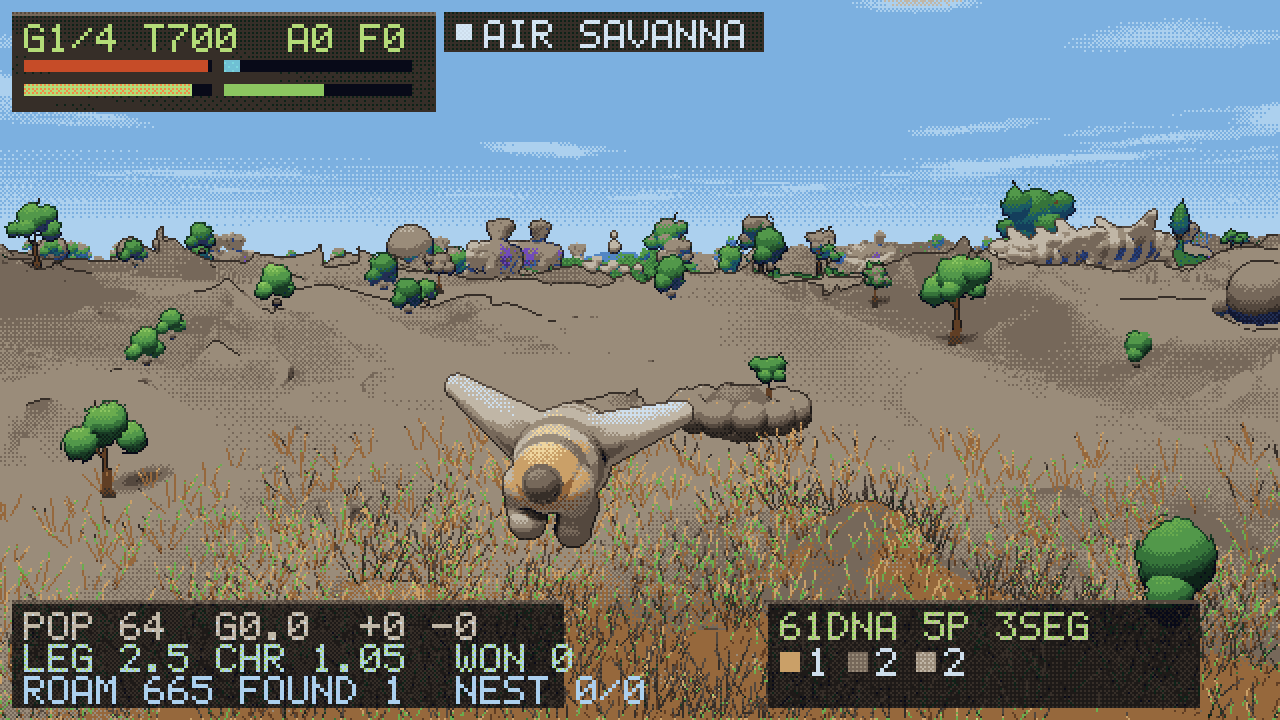
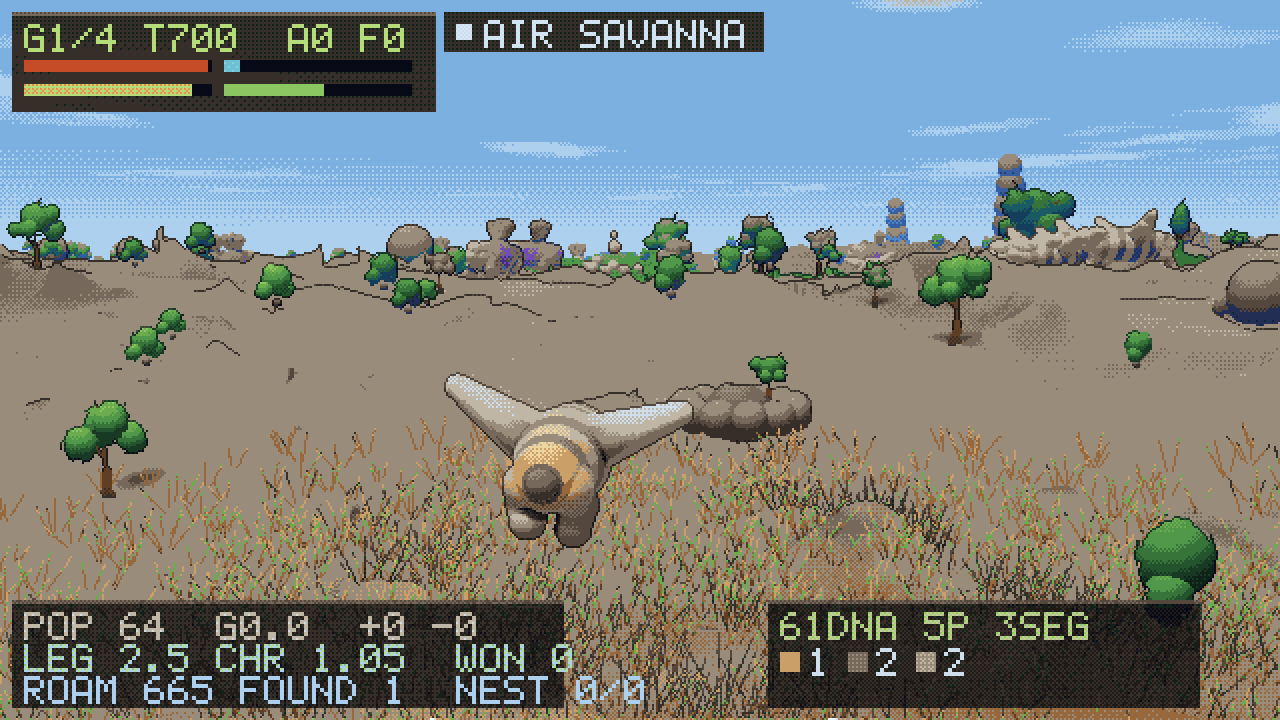
Wrapped light, visible wind, and somewhere to walk to
Four changes, aimed at the specific things that make an open world read as
somewhere you would go rather than as terrain you are standing on.

Wrapped diffuse with coloured shade. A plain Lambert terminator is a hard
line into near-black, and near-black is where a landscape stops being a
place and becomes a diagram. Light now wraps well past the terminator and
what is left over is filled by a blue sky dome, on the ground and on every
sphere impostor alike, so the unlit side of a hill or a canopy stays
legible and stays coloured. It is the same two terms with different
numbers and it moves the look further than anything else here.

Rim light, strongest when the sun is behind the subject. There are no
leaves to pass light through, but the silhouette is where the facing term
goes to zero, which is where the effect belongs - and it is what separates
one crown from the crown behind it when both are in shade.

Wind, as gusts rather than as wobble. A noise field scrolls along a fixed
heading and grass, boughs and crowns all sample the same one, so a gust
reads as a single thing crossing the ground instead of three animations
running at once. A bent blade is also a shorter one; leaning without
losing height stretches the grass rather than pushing it over.

Flowers, one tuft in a few dozen, because the ground is deliberately
low-chroma and a handful of saturated pixels per square is what gives the
eye somewhere to land. Rare on purpose - a meadow that is half flowers is
wallpaper.
[…]

diff --git a/src/render_land.c b/src/render_land.c
@@ -131,6 +131,38 @@ static float fbm2(uint32_t s, float x, float z)
          + rnoise(s ^ 0xC3u, x * 4.3f, z * 4.3f) * 0.17f;
 }
 
+/* Wind.
+ *
+ * The one thing a still frame cannot show and the one thing that most decides
+ * whether a landscape is alive. It is not a per-blade wobble: real wind
+ * arrives in gusts that cross the ground as visible bands, so this is a noise
+ * field scrolling along a fixed heading, sampled at whatever is being bent.
+ * Grass, boughs and crowns all read the same field, which is what makes a gust
+ * look like one gust passing over everything rather than three animations
+ * happening at once.
+ *
+ * Nothing in the simulation knows about it. Wind that pushed animals around
+ * would be a mechanic, and a mechanic has to be observable, learnable and
+ * worth an action - this is scenery. */
+static void wind_dir(const Ctx *c, float *wx, float *wz)
+{
+    float a = rhash(c->seed ^ 0x2F41u, 0, 0) * 6.2832f + c->time * 0.012f;
+    *wx = cosf(a); *wz = sinf(a);
+}
+
+static float wind_gust(const Ctx *c, float x, float z)
+{
+    float wx, wz;
+    wind_dir(c, &wx, &wz);
+    float t = c->time * 21.0f;
+    float u = (x - wx * t) * 0.0042f, v = (z - wz * t) * 0.0042f;
+    float g = rnoise(c->seed ^ 0x9E11u, u, v) * 0.68f
+            + rnoise(c->seed ^ 0x55C7u, u * 3.3f, v * 3.3f) * 0.32f;
+    /* squared, so the calm between gusts is genuinely calm */
+    g = clampf((g - 0.28f) * 1.9f, 0.0f, 1.0f);
+    return g * g;
+}
+
 /* The horizon colour is also the haze colour. Getting this wrong is the
  * fastest way to ruin a landscape: too bright and every hill past the first
  * one is the same pale grey, which is exactly what the first build did.
@@ -942,13 +974,26 @@ static void draw_world(Ctx *c, const Cp4World *w)
                  * off everything else */
                 float skyamt = clampf(slope, 0.0f, 1.0f);
                 float night = 1.0f - c->day;
+                /* Wrapped diffuse, and a shadow with a colour in it.
+                 *
+                 * A plain Lambert terminator is a hard line into near-black,
+                 * and near-black is where a landscape stops being a place and
+                 * becomes a diagram. Wrapping the light past the terminator
+                 * and filling what is left with a blue sky term is the whole
+                 * of the look: the unlit side of a hill stays legible, stays
+                 * coloured, and reads as being in shade rather than as being
+                 * switched off. It also costs nothing - it is the same two
+                 * terms with different numbers. */
+                float wrap = clampf((lam + 0.42f) / 1.42f, 0.0f, 1.0f);
+                wrap *= wrap;
                 V3 lightv = add(add(mul(c->sunc,
-                                        1.00f * lam * sh * (0.10f + 0.90f * c->day)
+                                        1.18f * wrap * sh * (0.10f + 0.90f * c->day)
                                         * (0.55f + 0.45f * ao)),
-                                    mul(v3(0.30f, 0.40f, 0.60f),
-                                        (0.26f * c->day + 0.10f * night) * skyamt * ao)),
-                                mul(v3(0.26f, 0.22f, 0.15f),
-                                    (0.13f * c->day + 0.05f * night) * ao));
+                                    mul(v3(0.34f, 0.48f, 0.82f),
+                                        (0.40f * c->day + 0.13f * night)
+                                        * (0.35f + 0.65f * skyamt) * ao)),
+                                mul(v3(0.34f, 0.27f, 0.17f),
+                                    (0.16f * c->day + 0.05f * night) * ao));
                 col = v3(alb.x * lightv.x, alb.y * lightv.y, alb.z * lightv.z);
                 dist = tg;
             } else {
@@ -1472,15 +1517,39 @@ static void sphere_ex(Ctx *c, V3 wp, float rad, V3 albedo, float emissive,
             V3 n = add(add(mul(c->right, nx), mul(c->up, -ny)), mul(c->fwd, -nz));
             float lam = clampf(-dot(n, sun), 0.0f, 1.0f);
             float up_amt = clampf(-n.y, 0.0f, 1.0f);
-            /* Same dome floor as shade_hit, for the same reason, and the same
-             * day term: written without it every tree, boulder and bush in the
-             * world stayed in full sunlight through the night while the ground
-             * they stood on went black, which read as a forest of lamps. */
-            float k = 1.15f * lam * (0.12f + 0.88f * c->day)
-                    + (0.34f * c->day + 0.11f * (1.0f - c->day))
-                      * (0.35f + 0.65f * up_amt)
-                    + 0.13f * nz * (0.25f + 0.75f * c->day);
-            V3 col = v3(albedo.x * k, albedo.y * k, albedo.z * k);
+            /* Three coloured terms rather than one scalar, and the same day
+             * term throughout: written without it every tree, boulder and bush
+             * in the world stayed in full sunlight through the night while the
+             * ground they stood on went black, which read as a forest of
+             * lamps.
+             *
+             * The sun is wrapped past the terminator the same way the ground
+             * is, and what is left over is filled by a blue sky dome. A leaf
+             * on the shaded side of a crown is then blue-green rather than
+             * black, which is most of why a canopy reads as a volume. */
+            float night = 1.0f - c->day;
+            float wrap = clampf((lam + 0.42f) / 1.42f, 0.0f, 1.0f);
+            wrap *= wrap;
+            V3 col = add(add(mul(v3(albedo.x * c->sunc.x, albedo.y * c->sunc.y,
+                                    albedo.z * c->sunc.z),
+                                 1.30f * wrap * (0.12f + 0.88f * c->day)),
+                             mul(v3(albedo.x * 0.34f, albedo.y * 0.48f, albedo.z * 0.82f),
+                                 (0.46f * c->day + 0.14f * night)
+                                 * (0.35f + 0.65f * up_amt))),
+                         mul(albedo, (0.13f * c->day + 0.04f * night) * nz));
+
+            /* Rim. Foliage lit from behind glows at its edge because a leaf is
+             * thin enough to pass light; there is no leaf here, but the edge
+             * is where nz goes to zero and that is enough to put the effect
+             * where it belongs. It is what separates one crown from the crown
+             * behind it when both are in shade. */
+            {
+                float backlit = clampf(dot(c->fwd, mul(c->sun, -1.0f)), 0.0f, 1.0f);
+                float rimf = 1.0f - nz;
+                rimf = rimf * rimf * rimf;
+                col = add(col, mul(c->sunc,
+                                   rimf * (0.10f + 0.85f * backlit) * c->day * 0.55f));
+            }
             if (emissive > 0.0f) col = add(col, mul(albedo, emissive));
             /* the ray through this very pixel, so the scattering halo lines up
              * with the one the terrain behind it is getting */
@@ -1708,6 +1777,10 @@ static void draw_cover(Ctx *c, const Cp4World *w)
             V3 high = mul(v3(alb.x * 1.25f + 0.05f, alb.y * 1.45f + 0.09f,
                              alb.z * 1.10f + 0.03f), lit);
 
+            float wx, wz;
+            wind_dir(c, &wx, &wz);
+            float gust = wind_gust(c, px, pz);
+
             int nb = 2 + (int)(r1 * 3.0f);
             /* fade into the ground it grows out of, so the far edge of the
              * scatter has nothing to see */
@@ -1723,11 +1796,105 @@ static void draw_cover(Ctx *c, const Cp4World *w)
                 float sx = px + cosf(a) * CELL * 0.22f;
                 float sz = pz + sinf(a) * CELL * 0.22f;
                 V3 base = v3(sx, gy + 0.6f, sz);
-                V3 tip  = v3(sx + cosf(a) * hgt * lean, gy - hgt,
-                             sz + sinf(a) * hgt * lean);
+                /* A bent blade is also a shorter one: leaning without losing
+                 * height stretches the grass instead of pushing it over, and
+                 * the gust reads as the whole meadow growing. */
+                float bend = gust * (0.85f + 0.45f * r2);
+                V3 tip  = v3(sx + cosf(a) * hgt * lean + wx * hgt * bend,
+                             gy - hgt * (1.0f - 0.32f * bend),
+                             sz + sinf(a) * hgt * lean + wz * hgt * bend);
                 V3 hi = high;
                 if (b & 1) hi = mul(hi, 0.86f);
                 blade(c, base, tip, 0.30f, low, hi);
+
+                /* One tuft in a few dozen carries a flower head. The ground is
+                 * deliberately low-chroma - grass, rock, sand - so a handful
+                 * of genuinely saturated pixels per square is what gives the
+                 * eye somewhere to land, and it costs one sphere. Rare on
+                 * purpose: a meadow that is half flowers is wallpaper. */
+                if (b == 0 && r2 > 0.955f && dist < 150.0f) {
+                    static const float FC[4][3] = {
+                        { 1.30f, 1.30f, 1.20f }, { 1.25f, 0.28f, 0.36f },
+                        { 0.40f, 0.52f, 1.30f }, { 1.30f, 1.05f, 0.30f },
+                    };
+                    int fi = (int)(r0 * 4.0f) & 3;
+                    sphere(c, tip, 0.62f,
+                           mul(v3(FC[fi][0], FC[fi][1], FC[fi][2]), lit), 0.0f);
+                }
+            }
+        }
+    }
+}
+
+/* Landmarks.
+ *
+ * A world you can walk across in any direction needs somewhere to walk *to*.
+ * Terrain alone will not do it: a hill looks like the hill behind it, and
+ * without a reason to prefer one heading the sensible thing is to stand still.
+ * So the high ground carries rare, tall, obviously artificial-looking stone -
+ * spires and stacked arches - placed on a much coarser grid than the trees and
+ * built to be legible as a silhouette from a kilometre off, which is the range
+ * at which it has to do its job.
+ *
+ * Hashed out of position like everything else here, so they cost no storage
+ * and a seed always grows the same ones in the same places. The simulation
+ * does not know they exist; what they change is where a policy that likes
+ * seeing new things will choose to go. */
+static void draw_landmarks(Ctx *c, const Cp4World *w)
+{
+    (void)w;
+    const float CELL = 620.0f;
+    const float RANGE = 2200.0f;
+    int x0 = (int)floorf((c->eye.x - RANGE) / CELL);
+    int x1 = (int)floorf((c->eye.x + RANGE) / CELL);
+    int z0 = (int)floorf((c->eye.z - RANGE) / CELL);
+    int z1 = (int)floorf((c->eye.z + RANGE) / CELL);
+
+    for (int cz = z0; cz <= z1; cz++) {
+        for (int cx = x0; cx <= x1; cx++) {
+            float r0 = rhash(c->seed ^ 0x4C0Fu, cx, cz);
+            if (r0 > 0.30f) continue;
+            float r1 = rhash(c->seed ^ 0x71B3u, cx, cz);
+            float r2 = rhash(c->seed ^ 0x0D95u, cx, cz);
+            float r3 = rhash(c->seed ^ 0x5AE9u, cx, cz);
+
+            float px = ((float)cx + 0.2f + 0.6f * r1) * CELL;
+            float pz = ((float)cz + 0.2f + 0.6f * r2) * CELL;
+            float dx = px - c->eye.x, dz = pz - c->eye.z;
+            if (dx * dx + dz * dz > RANGE * RANGE) continue;
+
+            float gy = cp4_height(c->seed, px, pz);
+            /* high, dry ground - a spire in a bog is a monument to nothing */
+            float elev = -gy;
+            if (elev < 34.0f) continue;
+            {
+                float nx, ny, nz;
+                cp4_normal(c->seed, px, pz, &nx, &ny, &nz);
+                if (clampf(-ny, 0.0f, 1.0f) < 0.88f) continue;
+            }
+
+            float h = 62.0f + 88.0f * r3;
+            float tone = 0.30f + 0.14f * r1;
+            V3 rock = v3(tone * 1.10f, tone * 1.02f, tone * 0.92f);
+            V3 dark = mul(rock, 0.72f);
+
+            if (r2 < 0.55f) {
+                /* a spire: a stack that narrows and leans a little */
+                float leanx = (r1 - 0.5f) * 0.20f, leanz = (r3 - 0.5f) * 0.20f;
+                for (int t = 0; t < 9; t++) {
+                    float f = (float)t / 8.0f;
+                    sphere(c, v3(px + leanx * h * f, gy - h * f, pz + leanz * h * f),
+                           h * (0.16f - 0.115f * f), t & 1 ? rock : dark, 0.0f);
+                }
+            } else {
+                /* stacked slabs: fewer, wider, and read as put there */
+                for (int t = 0; t < 5; t++) {
+                    float f = (float)t / 4.0f;
+                    float a = r1 * 6.28f + f * 1.1f;
+                    sphere(c, v3(px + cosf(a) * h * 0.06f, gy - h * (0.10f + 0.80f * f),
+                                 pz + sinf(a) * h * 0.06f),
+                           h * (0.22f - 0.09f * f), t & 1 ? dark : rock, 0.0f);
+                }
             }
         }
     }
@@ -1861,12 +2028,20 @@ static void draw_scenery(Ctx *c, const Cp4World *w)
                              leafv * (1.00f - 0.14f * warm),
                              leafv * (0.40f - 0.13f * warm));
 
+            /* The same gust, read at the trunk. A tree leans from the crown
+             * down, so the boughs move a little and the canopy a lot. */
+            float wdx, wdz;
+            wind_dir(c, &wdx, &wdz);
+            float sway = wind_gust(c, s.x, s.z)
+                       * (0.55f + 0.45f * sinf(c->time * 1.7f + s.r1 * 6.28f));
+
             /* Trunk, then boughs. Two stacked spheres were a post: what tells
              * you a tree is a tree at fifty units is the branching, and the
              * grass blade primitive is already a tapering line in space, which
              * is exactly what a bough is. */
             V3 tb = v3(s.x, s.y, s.z);
-            V3 tt = v3(s.x, s.y - h * 0.62f, s.z);
+            V3 tt = v3(s.x + wdx * h * sway * 0.06f, s.y - h * 0.62f,
+                       s.z + wdz * h * sway * 0.06f);
             blade(c, tb, tt, h * 0.075f, mul(trunk, 0.55f), trunk);
             /* short enough to stay inside the crown: a bough that pokes out
              * past the leaves is a spike, not a branch */
@@ -1875,8 +2050,9 @@ static void draw_scenery(Ctx *c, const Cp4World *w)
                 float a = s.r2 * 6.283f + (float)t * 2.094f;
                 float fy = 0.42f + 0.20f * (float)t;
                 blade(c, v3(s.x, s.y - h * fy, s.z),
-                      v3(s.x + cosf(a) * h * lean, s.y - h * (fy + 0.28f),
-                         s.z + sinf(a) * h * lean),
+                      v3(s.x + cosf(a) * h * lean + wdx * h * sway * 0.10f,
+                         s.y - h * (fy + 0.28f),
+                         s.z + sinf(a) * h * lean + wdz * h * sway * 0.10f),
                       h * 0.038f, mul(trunk, 0.5f), trunk);
             }
 
@@ -1892,7 +2068,9 @@ static void draw_scenery(Ctx *c, const Cp4World *w)
                  * as a taper. */
                 for (int t = 0; t < 7; t++) {
                     float f = (float)t / 6.0f;
-                    sphere_ex(c, v3(s.x, s.y - h * (0.40f + 0.56f * f), s.z),
+                    float k = h * sway * 0.16f * f;
+                    sphere_ex(c, v3(s.x + wdx * k, s.y - h * (0.40f + 0.56f * f),
+                                    s.z + wdz * k),
                               h * (0.30f - 0.25f * f * f), leaf, 0.0f, bite);
                 }
             } else {
@@ -1900,14 +2078,16 @@ static void draw_scenery(Ctx *c, const Cp4World *w)
                  * equal spheres came out as a clover leaf - the sizes have to
                  * disagree or the silhouette stays a circle. */
                 float a0 = s.r2 * 6.283f;
-                sphere_ex(c, v3(s.x, s.y - h * 0.80f, s.z), h * 0.27f, leaf, 0.0f, bite);
+                float ck = h * sway * 0.17f;
+                sphere_ex(c, v3(s.x + wdx * ck, s.y - h * 0.80f, s.z + wdz * ck),
+                          h * 0.27f, leaf, 0.0f, bite);
                 for (int t = 0; t < 5; t++) {
                     float a = a0 + (float)t * 1.257f;
                     float rr = h * (0.12f + 0.10f * rhash(c->seed ^ (uint32_t)(0x91u + t),
                                                           (int)s.x, (int)s.z));
-                    sphere_ex(c, v3(s.x + cosf(a) * h * 0.25f,
+                    sphere_ex(c, v3(s.x + cosf(a) * h * 0.25f + wdx * ck * 0.85f,
                                     s.y - h * (0.64f + 0.22f * (float)(t & 1)),
-                                    s.z + sinf(a) * h * 0.25f),
+                                    s.z + sinf(a) * h * 0.25f + wdz * ck * 0.85f),
                               rr, leaf, 0.0f, bite);
                 }
             }
@@ -2368,7 +2548,12 @@ void cp4_render_styled(const Cp4World *w, uint8_t *rgba, int OW, int OH, int sty
     draw_world(&c, w);
     /* Neither belongs underground: a tree hanging in the soil three
      * units from the camera is not scenery, it is a bug with roots. */
-    if (!c.buried) { draw_scenery(&c, w); draw_cover(&c, w); draw_birds(&c, w); }
+    if (!c.buried) {
+        draw_landmarks(&c, w);
+        draw_scenery(&c, w);
+        draw_cover(&c, w);
+        draw_birds(&c, w);
+    }
     draw_nests(&c, w);
     draw_home(&c, w);
     draw_flora(&c, w);

diff --git a/README.md b/README.md
@@ -422,6 +422,42 @@ They are there because a landscape with something alive in the air reads as a
 place and one without reads as a diorama, and because a flock a long way off
 is the cheapest sense of scale there is.
 
+**Wrapped light and coloured shade.** A plain Lambert terminator is a hard
+line into near-black, and near-black is where a landscape stops being a place
+and becomes a diagram. Light now wraps well past the terminator and what is
+left is filled by a blue sky dome, so the unlit side of a hill — or of a
+canopy — stays legible, stays coloured, and reads as being *in shade* rather
+than as being switched off. It is the same two terms with different numbers,
+and it changes the look more than anything else here.
+
+**Rim light**, strongest when the sun is behind what you are looking at.
+Foliage lit from behind glows at its edge because a leaf passes light; there
+are no leaves here, but the silhouette is where the facing term goes to zero
+and that is enough to put the effect where it belongs. It is what separates
+one crown from the crown behind it when both are in shade.
+
+**Wind.** The one thing a still frame cannot show and the one thing that most
+decides whether a landscape is alive — and it is not a per-blade wobble. Real
+wind arrives in gusts that cross the ground as visible bands, so a noise field
+scrolls along a fixed heading and grass, boughs and crowns all read the *same*
+field. That is what makes a gust look like one gust passing over everything
+rather than three animations happening at once. A bent blade is also a shorter
+one; leaning without losing height stretches the grass instead of pushing it
+over.
+
+**Flowers**, one tuft in a few dozen. The ground is deliberately low-chroma, so
+a handful of genuinely saturated pixels per square is what gives the eye
+somewhere to land. Rare on purpose: a meadow that is half flowers is wallpaper.
+
+**Landmarks.** A world you can walk across in any direction needs somewhere to
+walk *to*, and terrain alone will not do it — a hill looks like the hill behind
+it, and without a reason to prefer one heading the sensible thing is to stand
+still. The high ground carries rare stone spires and stacked slabs on a much
+coarser grid than the trees, built to be legible as a silhouette from a
+kilometre off, which is the range at which they have to do their job. The
+simulation does not know they exist; what they change is where a policy that
+likes seeing new things will choose to go.
+
 | ![dawn](docs/land_dawn.png) | ![dusk](docs/land_dusk.png) |
 |---|---|
 | ![savanna](docs/land_savanna.png) | ![from the air](docs/land_air.png) |
